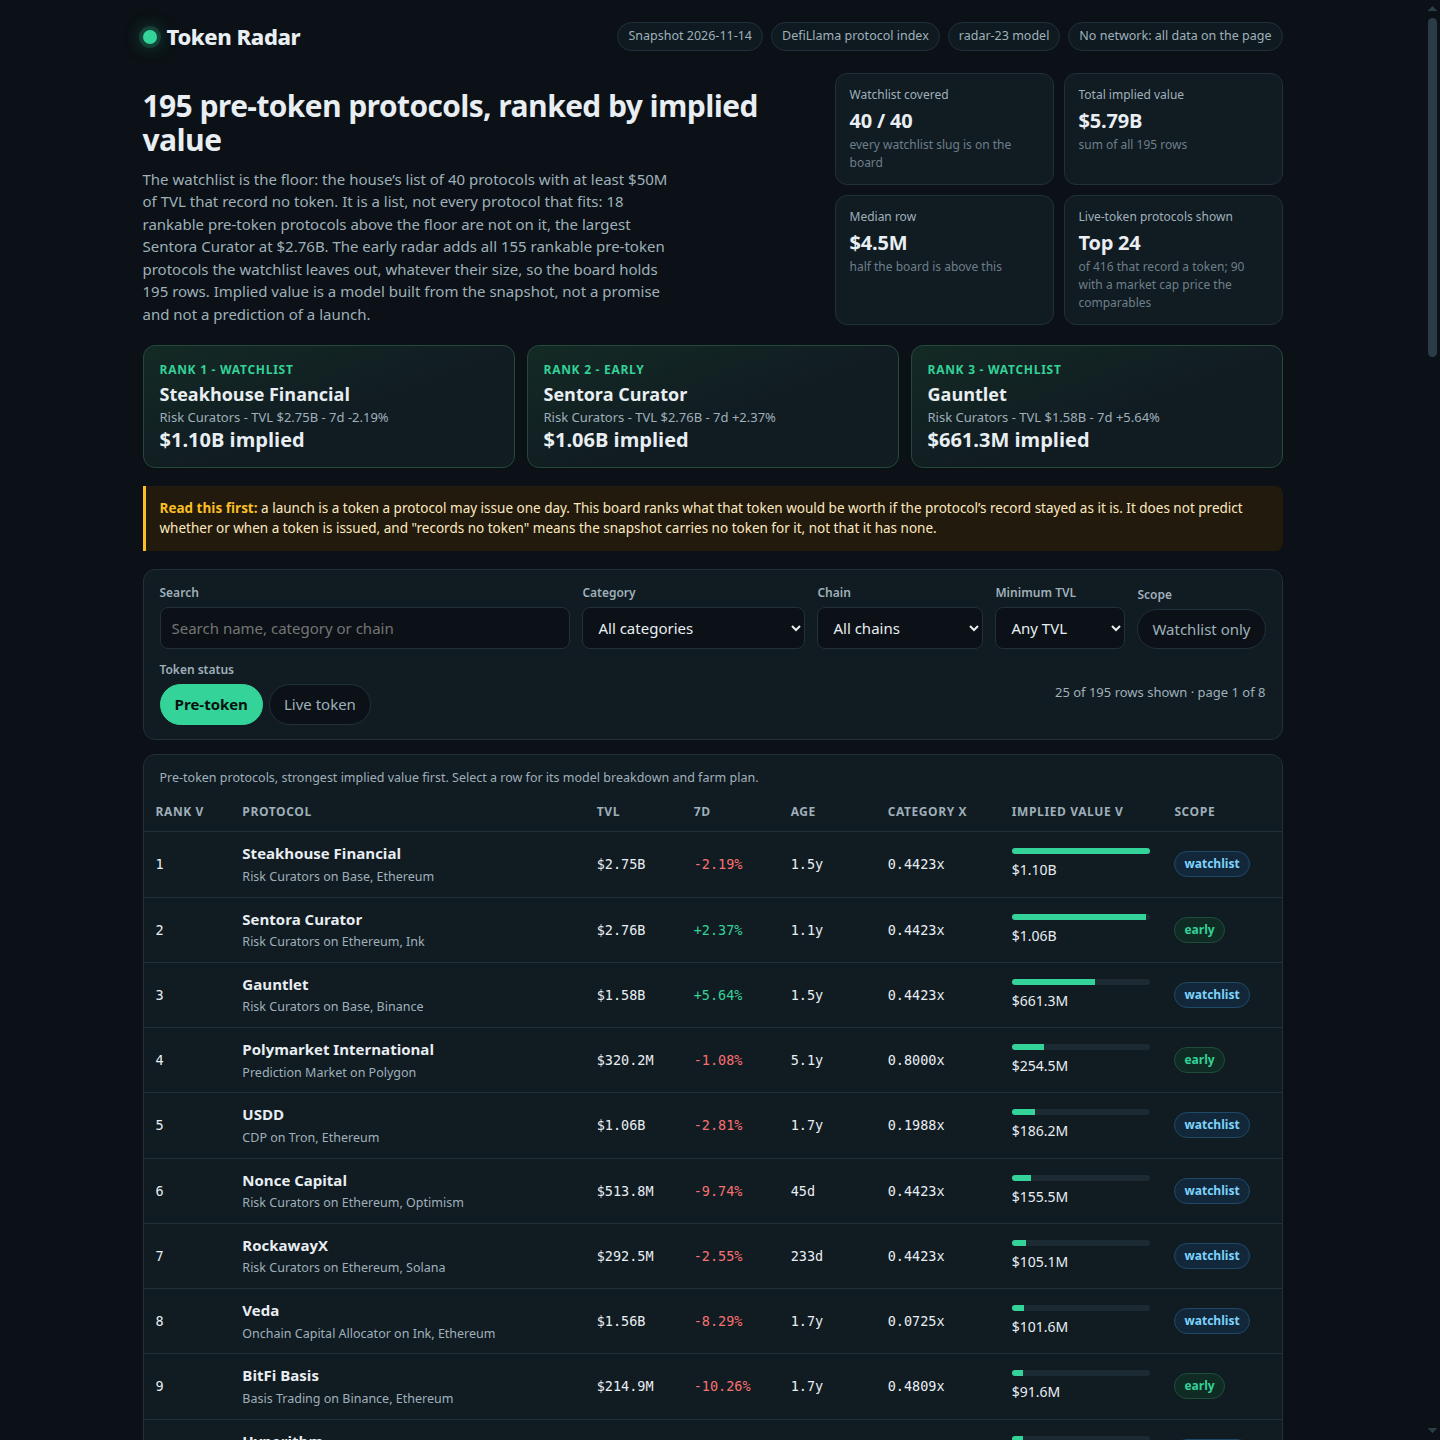
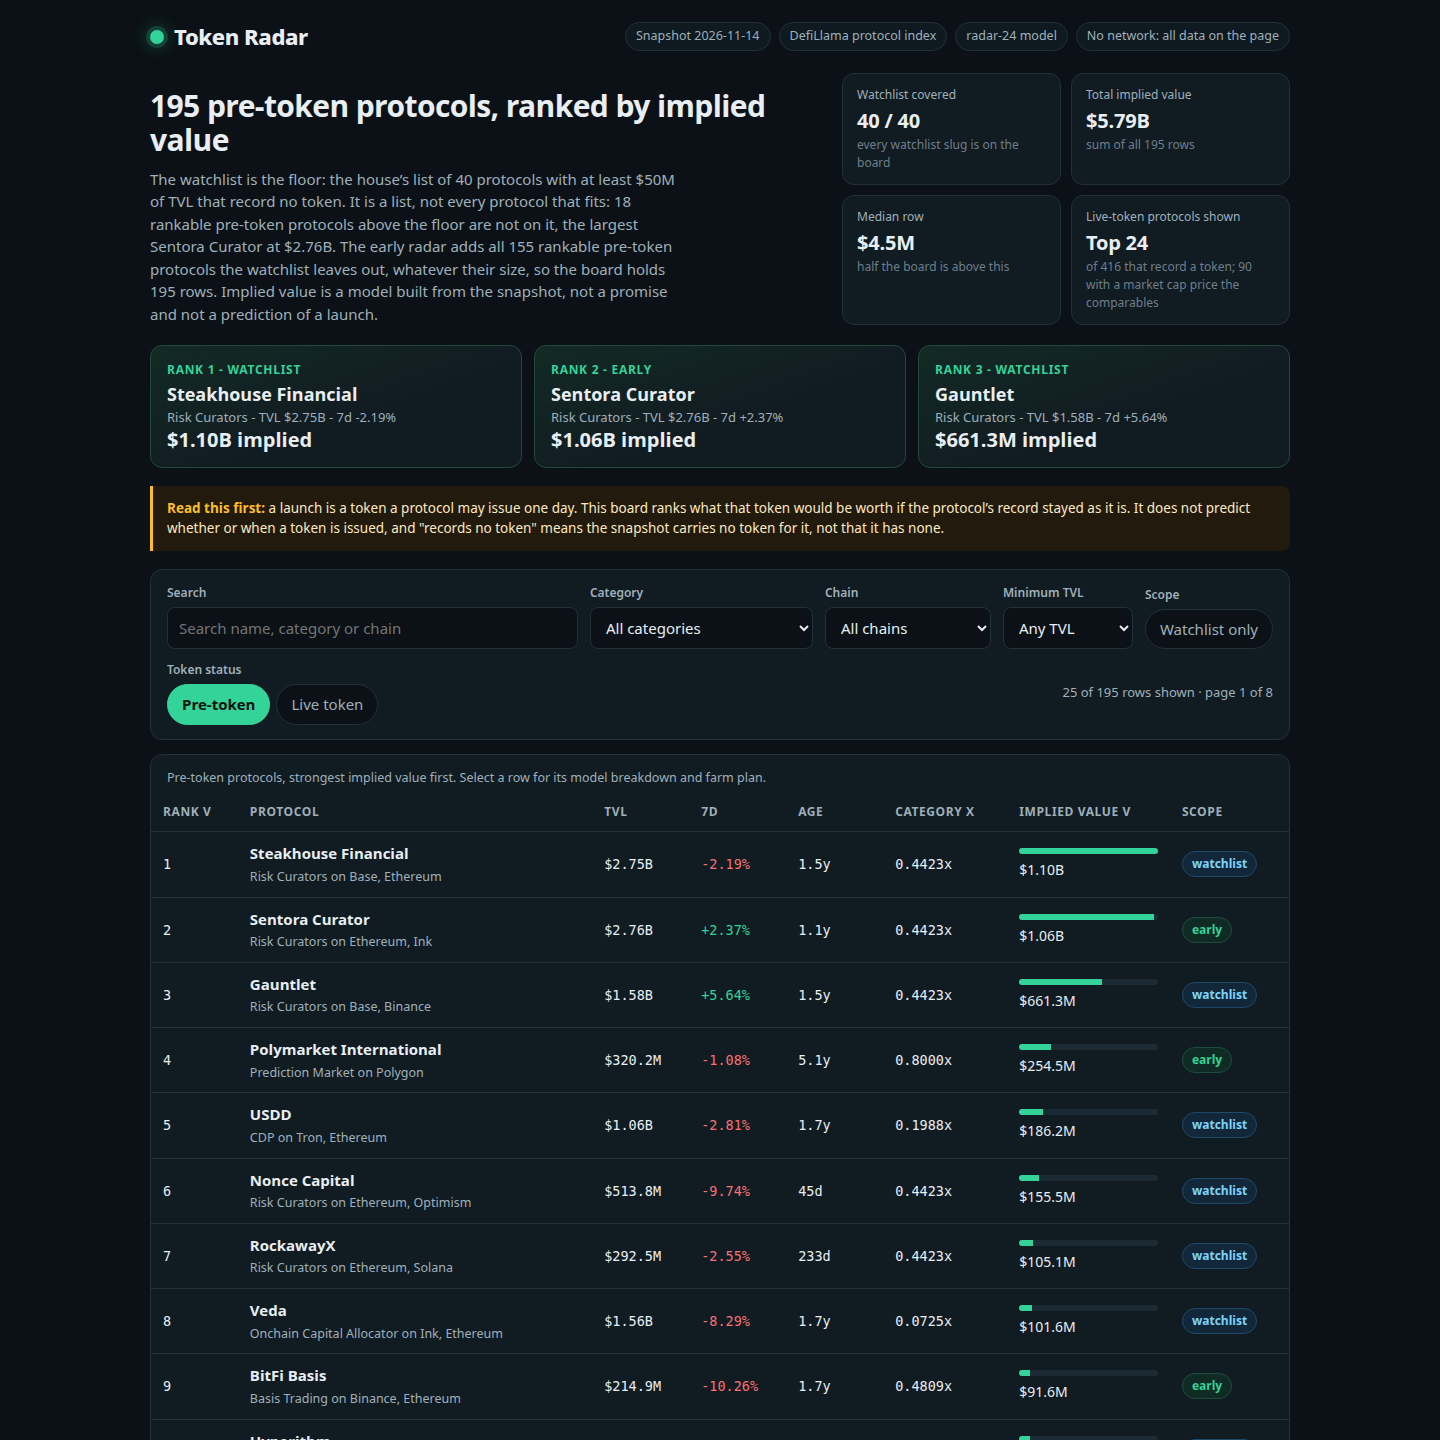
Token Radar radar-24: fix double-rounded live multiples, make why-sentences read their numbers, verify Native Credit Pool
Live multiples were stored rounded to three decimals and displayed at
two, so the display rounded twice: Api3 showed 2.98x for a true 2.97x
and Zama 1.64x for a true 1.63x, and ACryptoS showed 0.01x for a true
0.02x (0.015 displays as 0.01x in JS, so four decimals does not save
it either). The live multiple is now stored unrounded and toFixed(2)
is the only rounding; checked over all 128 live-token protocols with
a market cap. The README's own 2.98x for Api3 is corrected to 2.97x.

The why-sentences' bands now read the numbers they describe: a 5-10%
weekly move is modest growth/decline, not flat (42 rows); 300-364 days
is nearly a year, not half a year (9 rows), and exactly 730 days is two
years not two-plus (Goose) and exactly 365 days is a year not over one
(Yuzu Money); mid-range now starts at the market median, so 18 rows at
0.2013-0.217x read below-market instead of mid-range next to 0.1988x
rows that already did.

Round 20's open item is closed: the Native Credit Pool figure is
re-verified against DefiLlama's API token breakdown on 14 Nov 2026
(USDC $6.54M, largest asset, of $19.05M at 11:24 UTC; $6.25M of
$19.14M in the day's 00:00 UTC entry).

Board unchanged: same 195 rows, ranks and implied values, board.json
byte-identical; screenshots retaken for the radar-24 label.

diff --git a/dashboard/app.js b/dashboard/app.js
@@ -1,4 +1,4 @@
-// Token Radar's dashboard (radar-23). It reads window.RADAR (written beside
+// Token Radar's dashboard (radar-24). It reads window.RADAR (written beside
 // dashboard/ by main.ts from the same board.json) and renders the ranked
 // board, the filters, a per-protocol detail view with the model's own
 // breakdown and the protocol's farm plan, and the live-token set kept apart.
@@ -47,6 +47,12 @@
   // One sentence saying why this row sits where it does, built from the
   // same drivers the model scored: size, momentum, seasoning, category and
   // the quality of the evidence. It is a reading of the numbers, not a claim.
+  // The bands read the numbers they describe: a 5-10% weekly move is not
+  // flat (42 rows read that way), 300-364 days is not half a year (9 rows),
+  // and a multiple below the market median is not mid-range (18 rows at
+  // 0.2013-0.217x against a 0.2343x market). The boundaries are strict
+  // where the words are: exactly 730 days is two years, not two-plus, and
+  // exactly 365 days is a year, not over one.
   function whyHere(row) {
     var parts = [];
     if (row.tvl_usd >= 1e9) parts.push('a very large TVL');
@@ -54,11 +60,14 @@
     else if (row.tvl_usd >= 5e7) parts.push('a TVL at or above the watchlist floor');
     else parts.push('a modest TVL below the watchlist floor');
     if (row.change_7d !== null && row.change_7d !== undefined && row.change_7d >= 10) parts.push('fast seven-day growth' + (row.change_7d > DATA.model.growth_cap ? ', clamped at +' + DATA.model.growth_cap + '%' : ''));
+    else if (row.change_7d !== null && row.change_7d !== undefined && row.change_7d >= 5) parts.push('modest seven-day growth');
     else if (row.change_7d !== null && row.change_7d !== undefined && row.change_7d <= -10) parts.push('shrinking TVL over seven days' + (row.change_7d < DATA.model.growth_floor ? ', clamped at ' + DATA.model.growth_floor + '%' : ''));
+    else if (row.change_7d !== null && row.change_7d !== undefined && row.change_7d <= -5) parts.push('modest seven-day decline');
     else if (row.change_7d === null || row.change_7d === undefined) parts.push('seven-day growth unreported, so it is valued as flat with a small discount');
     else parts.push('flat seven-day growth');
-    if (row.age_days !== null && row.age_days !== undefined && row.age_days >= 730) parts.push('two-plus years running with no token');
-    else if (row.age_days !== null && row.age_days !== undefined && row.age_days >= 365) parts.push('over a year running with no token');
+    if (row.age_days !== null && row.age_days !== undefined && row.age_days > 730) parts.push('two-plus years running with no token');
+    else if (row.age_days !== null && row.age_days !== undefined && row.age_days > 365) parts.push('over a year running with no token');
+    else if (row.age_days !== null && row.age_days !== undefined && row.age_days >= 300) parts.push('nearly a year running with no token');
     else if (row.age_days !== null && row.age_days !== undefined && row.age_days >= 180) parts.push('half a year running with no token');
     else if (row.age_days !== null && row.age_days !== undefined && row.age_days < 180) parts.push('a young protocol, seasoned only briefly');
     else parts.push('age unreported, so it is scored as a year old');
@@ -66,7 +75,7 @@
     else if (row.category_multiple <= DATA.model.multiple_floor) parts.push('a category multiple at the model floor');
     else if (row.category_multiple >= 0.5) parts.push('a rich category multiple');
     else if (row.category_multiple <= 0.1) parts.push('a cheap category multiple');
-    else if (row.category_multiple >= 0.2) parts.push('a mid-range category multiple');
+    else if (row.category_multiple >= DATA.market_multiple) parts.push('a mid-range category multiple');
     else parts.push('a below-market category multiple');
     if ((row.chains || []).length >= 3) parts.push('TVL spread across several chains');
     return 'Why rank ' + row.rank + ': ' + parts.join(', ') + '.';

diff --git a/lib/model.ts b/lib/model.ts
@@ -1,4 +1,4 @@
-// Token Radar's model (radar-23): one sealed snapshot in, one ranked board out.
+// Token Radar's model (radar-24): one sealed snapshot in, one ranked board out.
 //
 // The board covers every slug in the snapshot's watchlist (the floor, never a
 // ceiling) plus every other rankable pre-token protocol the watchlist leaves
@@ -122,7 +122,7 @@ export const MODEL: ModelConstants = {
 };
 
 /** The model's version label: the dashboard names it. */
-export const MODEL_VERSION = 'radar-23';
+export const MODEL_VERSION = 'radar-24';
 
 /** How many live-token protocols the Live token view carries, by market cap. */
 export const LIVE_ROWS = 24;
@@ -1146,7 +1146,15 @@ const PLAN_CORRECTIONS: Record<string, PlanCorrection> = {
   // nobody borrows against a deposit, so there is no health factor
   // to track and no borrow to repay. The supply asset is verifiable
   // too: USDC is the largest asset in the pool, $6.54M of $19.03M on
-  // 14 November 2026. The lending shape would tell its farmer to
+  // 14 November 2026. That figure was re-verified in radar-24 against
+  // DefiLlama's own API token breakdown (api.llama.fi/protocol/
+  // native-credit-pool, tokensInUsd) on 14 November 2026: USDC $6.54M,
+  // the largest asset, of $19.05M total at 11:24 UTC, and $6.25M of
+  // $19.14M in the day's 00:00 UTC entry, so the $19.03M is the same
+  // day's total at an earlier fetch, within intraday drift. The API's
+  // description confirms the pool itself: a unified, single-sided
+  // asset supply pool that enables market makers to borrow assets for
+  // trading. The lending shape would tell its farmer to
   // supply USDC as collateral and borrow against it, repay part of
   // the borrow every week and track the health factor — every step
   // of that is the wrong side of the pool. (DefiLlama: Native Credit
@@ -1244,7 +1252,23 @@ function toLiveRow(p: SnapshotProtocol): LiveRow {
     tvl_usd: p.tvl_usd,
     mcap_usd: p.mcap_usd,
     change_7d: p.change_7d,
-    multiple: p.mcap_usd !== null && p.tvl_usd > 0 ? Math.round((p.mcap_usd / p.tvl_usd) * 1000) / 1000 : null,
+    // Stored unrounded, and the page's toFixed(2) is the only rounding:
+    // rounding to three decimals first double-rounds at display, and four
+    // decimals does not save it either. Api3's true ratio is 2.9747x, so
+    // its two-decimal multiple is 2.97x, but the three-decimal store read
+    // 2.975 and the page showed 2.98x; Zama read 1.64x for a true 1.63x.
+    // And ACryptoS's ratio is 0.0150x, a true 0.02x at two decimals, but
+    // the stored 0.015 displays as 0.01x, because (0.015).toFixed(2) is
+    // "0.01" in JavaScript. Four rows showed a wrong multiple that way
+    // (Api3, Zama and Usual USD0 at 0.28x for a true 0.27x among the peer
+    // samples, Api3 and Zama again in the Live view). The board's own
+    // multiples stay rounded to four decimals, because the page recomputes
+    // each row from the multiple board.json carries; a live multiple is
+    // only ever displayed and sorted, never recomputed from, so the full
+    // ratio is the right thing to store. Checked over all 128 live-token
+    // protocols with a market cap: toFixed(2) from the full ratio matches
+    // the correctly rounded two-decimal value on every one.
+    multiple: p.mcap_usd !== null && p.tvl_usd > 0 ? p.mcap_usd / p.tvl_usd : null,
   };
 }
 

diff --git a/main.ts b/main.ts
@@ -1,4 +1,4 @@
-// Token Radar (radar-23): the entry program, Node 22, standard library only.
+// Token Radar (radar-24): the entry program, Node 22, standard library only.
 //
 // It reads the sealed snapshot from /input/snapshot.json (or --input
 // <file|dir>), scores every rankable pre-token protocol with the model in

diff --git a/README.md b/README.md
@@ -6,6 +6,51 @@ staked or bridged product of one that trades, ranks them by what their launch
 would be worth, and hands in a web dashboard with the board, a detail view
 for every protocol, filters, and a farm plan for each row.
 
+## The model (radar-24)
+
+Radar-24 keeps radar-23's formula and every implied value, and fixes the
+numbers the page itself showed wrong plus the why-sentences that
+misdescribed their rows. First, the live multiples double-rounded: the
+code stored each live-token multiple rounded to three decimals and the
+page displayed it at two, so the display rounded twice. Api3's true
+ratio is 2.9747x, a two-decimal multiple of 2.97x, but the stored 2.975
+showed 2.98x in the detail view and the Live view; Zama showed 1.64x
+for a true 1.63x. Rounding to four decimals first does not save it
+either: ACryptoS's ratio is 0.0150x, a true 0.02x at two decimals, but
+the stored 0.015 displays as 0.01x, because (0.015).toFixed(2) is
+"0.01" in JavaScript, and Usual USD0 showed 0.28x for a true 0.27x.
+The live multiple is now stored unrounded and the page's toFixed(2) is
+the only rounding; checked over all 128 live-token protocols with a
+market cap, it matches the correctly rounded two-decimal value on
+every one. The board's own multiples stay rounded to four decimals,
+because the page recomputes each row from the multiple board.json
+carries; a live multiple is only ever displayed and sorted, never
+recomputed from. The README's own "2.98x" for Api3 is corrected to
+2.97x with it. Second, the why-sentences: their bands read the numbers
+they describe now. A 5-10% weekly move is not flat, so 42 rows that
+read "flat seven-day growth" while moving 5-10% in a week now read
+"modest seven-day growth" or "modest seven-day decline", and only a
+move within 5% reads flat. Nine rows aged 300-364 days read "half a
+year running with no token" while nearly a year old, so they now read
+"nearly a year", and the boundaries are strict where the words are:
+exactly 730 days (Goose) is two years, not two-plus, and exactly 365
+days (Yuzu Money) is a year, not over one. And the mid-range band no
+longer sits at a fixed 0.2x: 18 rows at 0.2013-0.217x read "mid-range"
+while below the 0.2343x market median, next to rows at 0.1988x that
+read "below-market", so mid-range now starts at the market median
+itself. Third, the open item from round 20 is closed: the Native
+Credit Pool token-breakdown figure is verified against DefiLlama's API
+on 14 November 2026 (api.llama.fi/protocol/native-credit-pool,
+tokensInUsd). USDC is the largest asset supplied, $6.54M, of $19.05M
+total at 11:24 UTC; the day's 00:00 UTC entry reads $6.25M of $19.14M,
+so the $19.03M in the radar-22 text is the same day's total at round
+19's fetch, within intraday drift. The API's description confirms the
+pool itself: a unified, single-sided asset supply pool that enables
+market makers to borrow assets for trading. The board is unchanged:
+same 195 rows, same ranks, same implied values, board.json byte
+identical; only the live multiples in data.js, the why-sentences and
+prose move, and the screenshots are retaken for the radar-24 label.
+
 ## The model (radar-23)
 
 Radar-23 keeps radar-22's formula and every implied value, and fixes
@@ -486,7 +531,7 @@ priced as if it were a mid-market category; in log space it prices at the
 0.05 floor. A single peer still never sets its own price: Risk Curators'
 2.97x peer pulls the multiple to 0.4423x, not to 2.97x, and an extreme peer
 still lands at the cap, which is the model's bound. On this snapshot the
-Risk Curators median comes from a single live peer (Api3, at 2.98x mcap/TVL),
+Risk Curators median comes from a single live peer (Api3, at 2.97x mcap/TVL),
 so without shrinkage all 34 Risk Curator rows would price at the 0.80 cap;
 shrunk in log space, they price at 0.4423x. The multiple is rounded to four decimals before
 it is used, so the dashboard's recompute of a row matches board.json exactly.
